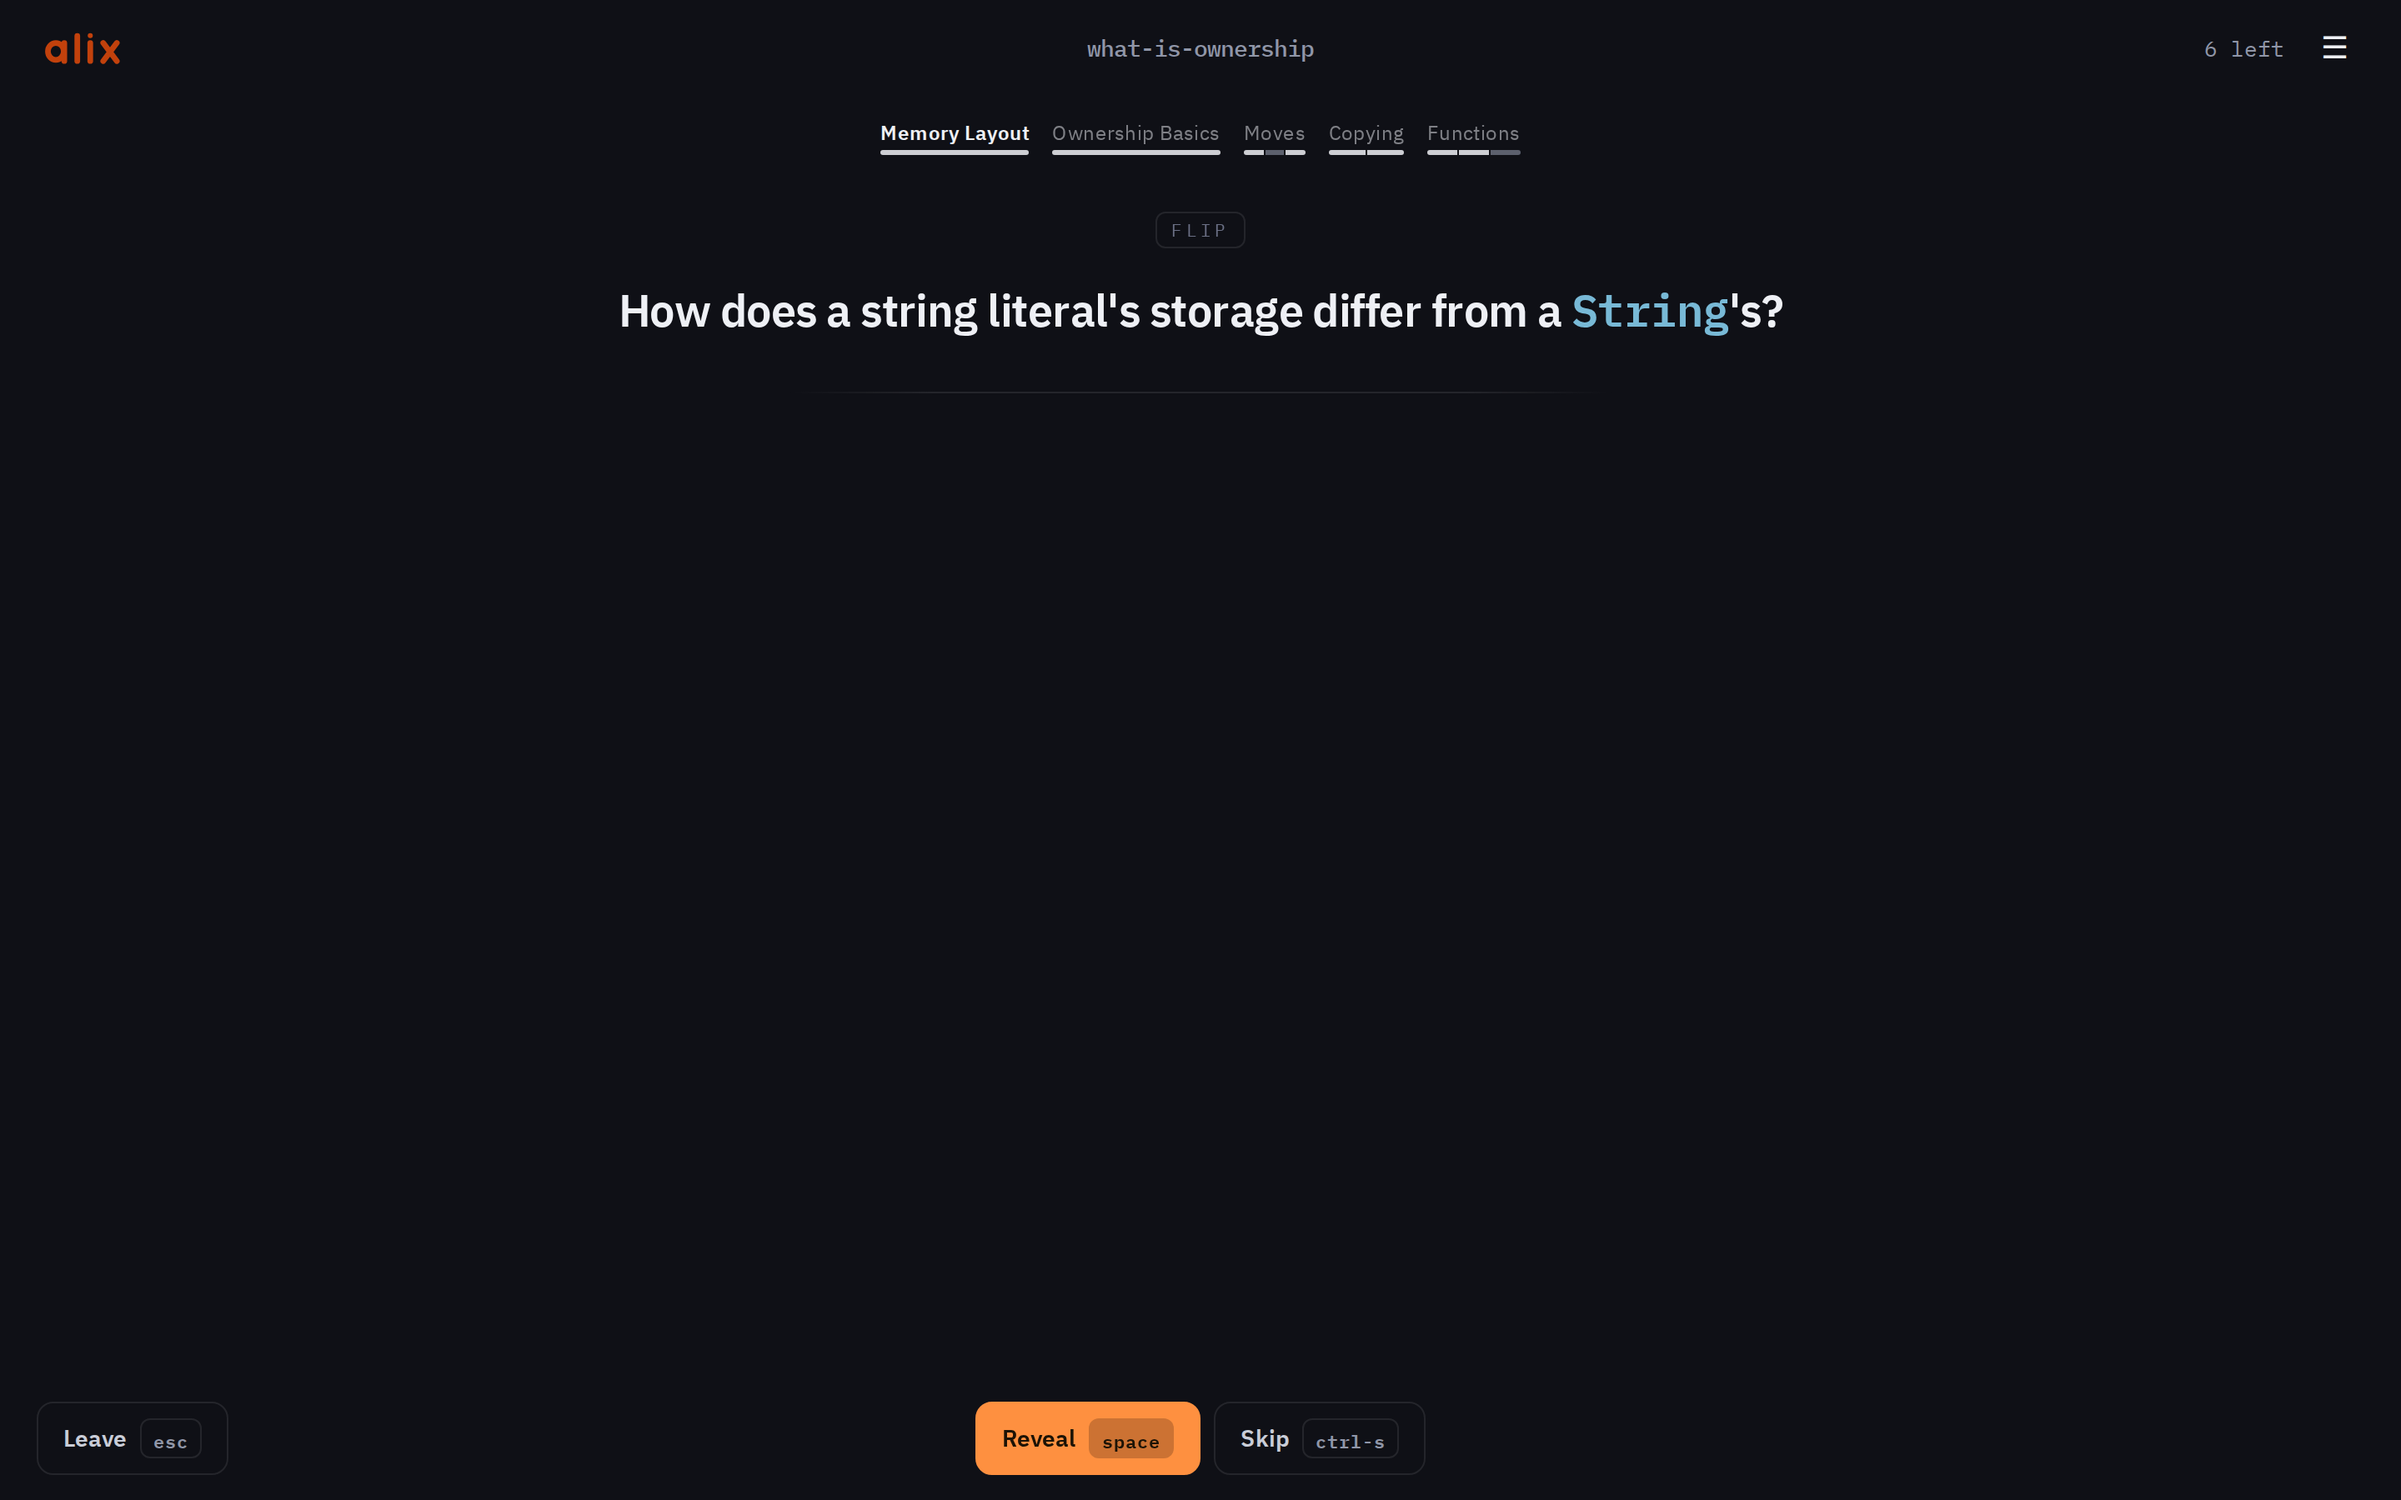
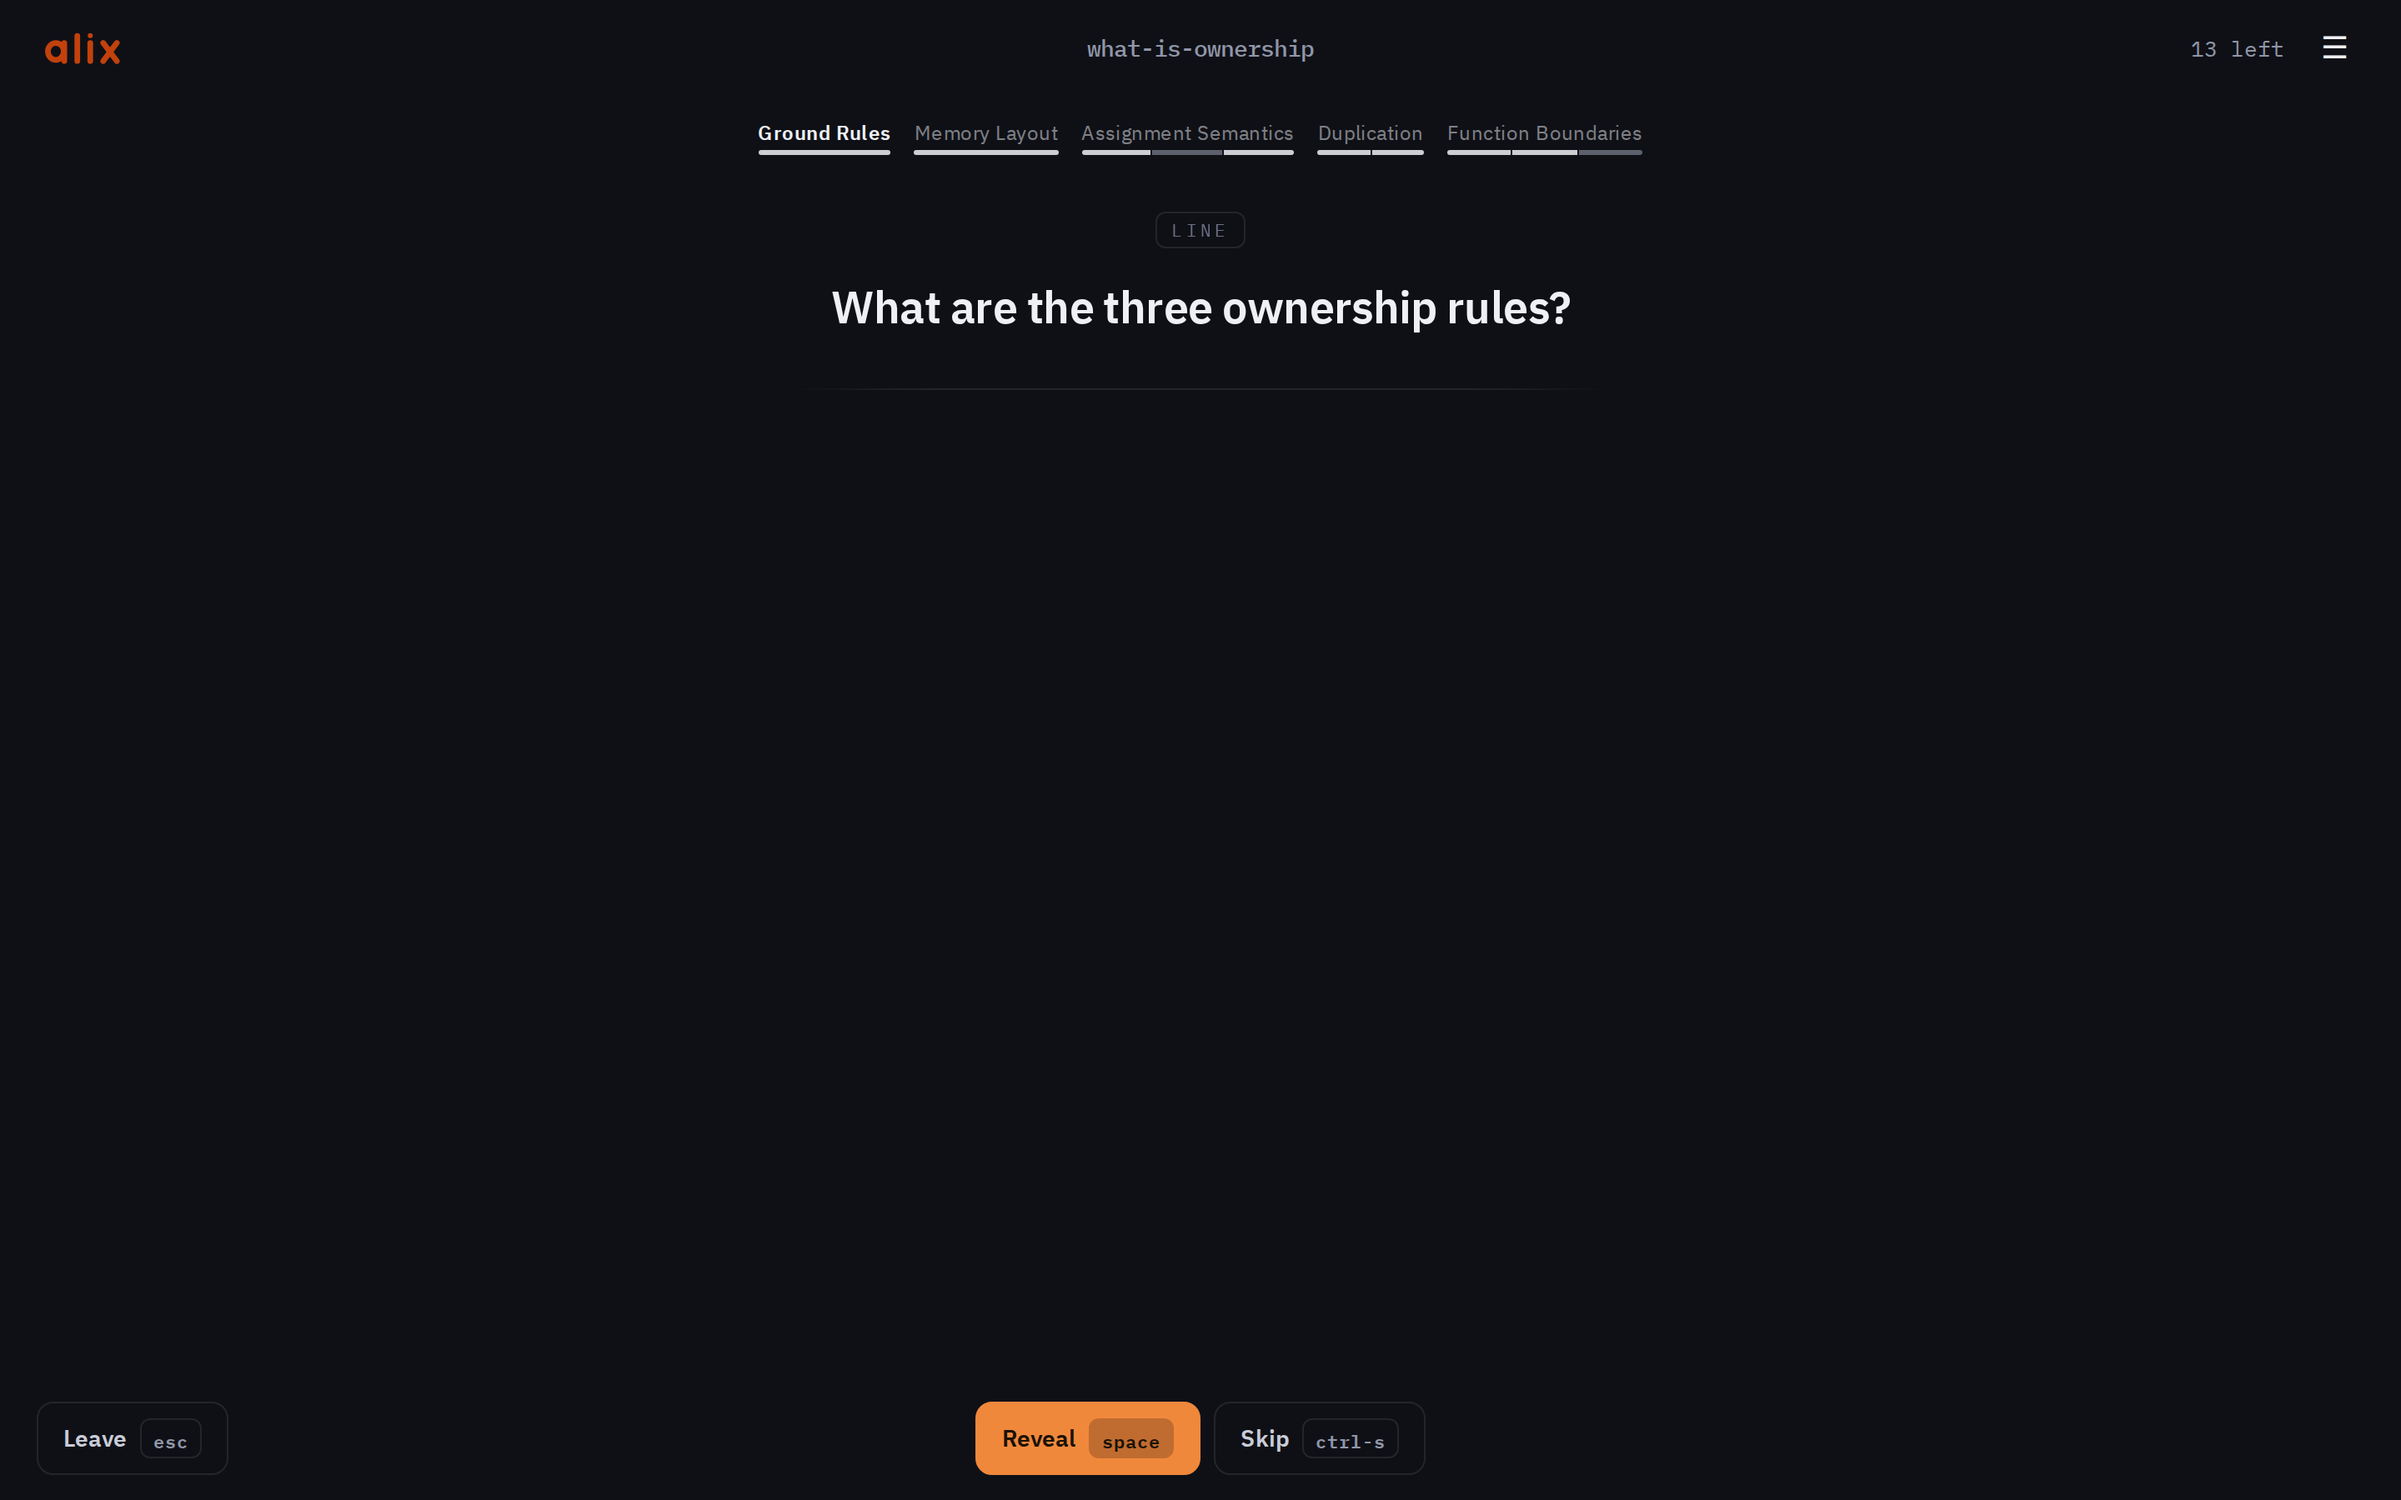
docs: resolve the docs-audit pass-13 findings
The topology shot's landing copy stops promising a weak-to-learned
heatmap: graduation takes two genuinely spaced Goods (learning holds
until two), so a screenshot recipe without real elapsed time can only
paint the seen/acquired tiers, and synthesizing store state would break
the fixtures-are-content rule. The alt and caption now describe the
region breadcrumb and its per-card cell strips, shot 8 is recaptured
from a clean slate with its select under cram (the sitting must open in
review phase regardless of how FSRS intervals race the recency
backdate), and my previous commit's red-to-green claim is retracted by
this one. WalkDto's five *_runs display projections join the API table
(shapes verified against dto.rs, two nullable), and the README gains
the deck init row plus a one-sentence note that a hand-written deck is
initialized once, without which it never lists.

Claude-Session: https://claude.ai/code/session_01EJ9FrLi7YLB2pH7nuTCNm1

Changed region(s): [[0.25, 0.1867, 0.75, 0.2178], [0.3125, 0.0622, 0.6875, 0.1244]]

diff --git a/site/index.html b/site/index.html
@@ -176,7 +176,7 @@
           <div class="slide"><img src="img/shot-5-augment.webp" alt="The Augment screen: enrichment targets with guidance fields and before-and-after previews" loading="lazy"></div>
           <div class="slide"><img src="img/shot-6-trace.webp" alt="A trace-walk checkpoint showing the predicted step beside the real code" loading="lazy"></div>
           <div class="slide"><img src="img/shot-7-picker.webp" alt="The deck picker: a workspace's dependency tree" loading="lazy"></div>
-          <div class="slide"><img src="img/shot-8-topology.webp" alt="A review with the topology region breadcrumb and per-region strength heatmap" loading="lazy"></div>
+          <div class="slide"><img src="img/shot-8-topology.webp" alt="A review with the topology region breadcrumb, one per-card cell strip under each region" loading="lazy"></div>
           <div class="slide"><img src="img/shot-9-themes.webp" alt="The theme gallery previewing colour themes on a sample card" loading="lazy"></div>
           <div class="slide"><img src="img/shot-10-kids.webp" alt="The kids client: tap-the-answer review with the mascot" loading="lazy"></div>
         </div>
@@ -310,7 +310,7 @@
     "Let the AI enrich a deck — distractors, mnemonics, key points, a topology — generated once, cached, studied offline.",
     "Traces: predict each step, then check it against the real code.",
     "Organize decks into a curriculum — master one topic to unlock the next.",
-    "Watch a topic turn from weak to learned, region by region.",
+    "Review a topic region by region, each card's state at a glance.",
     "Study your way — a couple dozen themes, previewed live.",
     "A kids mode too: an adult builds the box, a kid taps through it — same engine, gentler face."
   ];

diff --git a/README.md b/README.md
@@ -66,7 +66,9 @@ let \blank{mut} x = 0;
 The front is the `## ` line; the plain lines below are the answer. A `> ` line
 is a note shown after you answer, and a `<!-- -->` directive on a card tunes it
 (here `\blank{mut}` turns into a fill-in-the-blank, auto-detected as a cloze
-card). Full format and every directive:
+card). Run `alix deck init <file>` once on a hand-written deck: it mints the
+stable deck and card ids that make the file appear in the picker and carry
+review history. Full format and every directive:
 [the deck format](docs/book/src/03-the-deck-format.md),
 [directives](docs/book/src/07-directives.md).
 
@@ -82,6 +84,7 @@ grading and card identity keep using the source text.
 | `alix` | Open the web app to pick a deck or workspace |
 | `alix profile` | Define and launch a named instance per person (decks, port, kids/adult) |
 | `alix generate <source>` | Draft a deck, a trace (`--trace`), or a whole workspace |
+| `alix deck init <deck>` | Initialize a hand-written deck once (mints its stable ids) |
 | `alix deck augment <deck> --target …` | Add distractors, notes, or key points |
 | `alix deck copy\|move <deck> <workspace>` | Transfer one deck and its owned files between workspaces |
 | `alix deck remove <deck>` | Delete a deck and everything that is its alone (cannot be undone) |

diff --git a/docs/API.md b/docs/API.md
@@ -916,16 +916,21 @@ attempted and failed; one target's error doesn't stop the rest from running).
 | `kind` | string | Always `"walk"`. |
 | `phase` | string | `predict` \| `reveal` \| `done` *(closed)*. |
 | `description` / `source` | string / string? | |
+| `description_runs` | [InlineRun] | Display projection of `description`. |
 | `total` / `current` | number | `current` is **1-based**. |
 | `path` | [HopDto] | The rail. |
 | `prompt` | string? | |
+| `prompt_runs` | [InlineRun]? | Display projection of `prompt`; null with it. |
 | `givens` | [string] | |
+| `given_runs` | [[InlineRun]] | Display projection of `givens`, one run list per given. |
 | `locator` | string? | |
 | `prediction` | string? | Echoed on reveal. |
 | `excerpt` | ExcerptDto? | |
 | `excerpt_error` | string? | |
 | `points` | [string] | Key points to self-check against. |
+| `point_runs` | [[InlineRun]] | Display projection of `points`, one run list per point. |
 | `note` | string? | |
+| `note_runs` | [InlineRun]? | Display projection of `note`; null with it. |
 | `auto_grade` | bool | AI judges the prediction. |
 | `thinking` | bool | Poll while an auto-grade is in flight. |
 | `verdict` | string? | The auto-grade's verdict: `passed` \| `partly` \| `failed` *(closed — the same tokens as `HopDto.delta`)*. |
